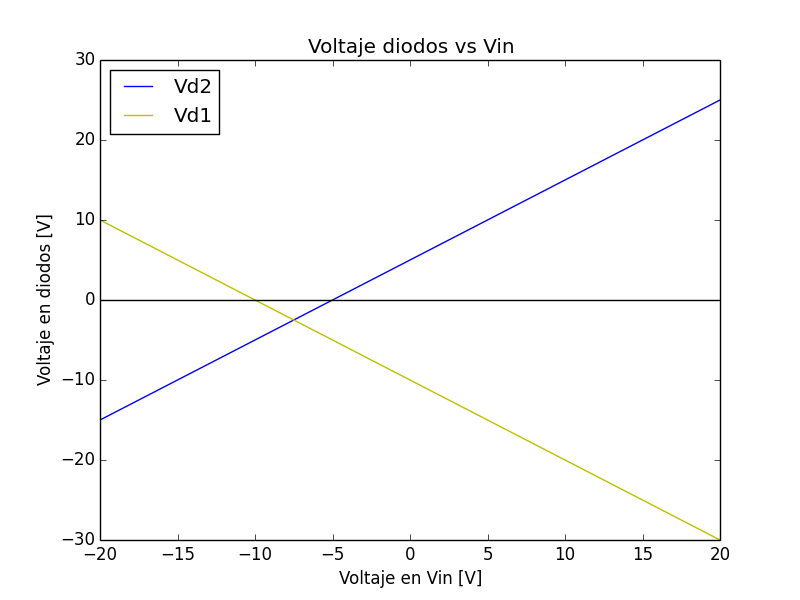
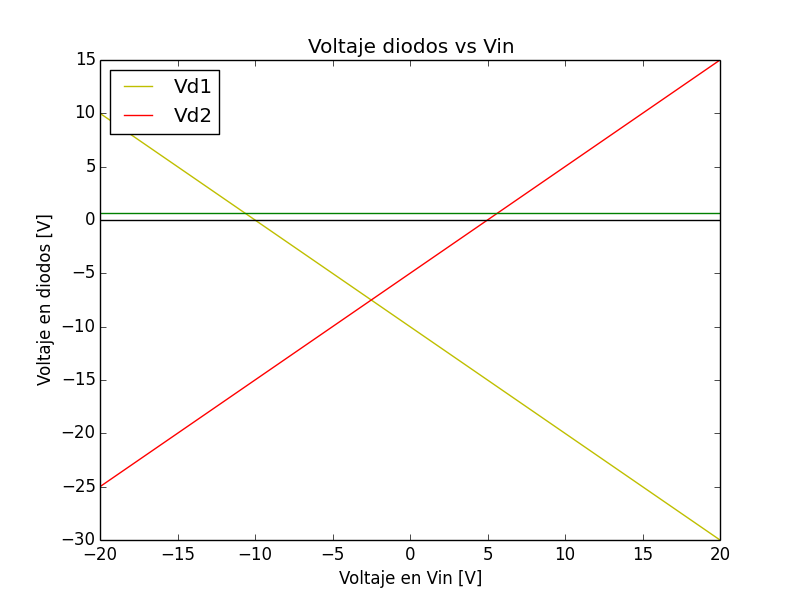
Ok

diff --git a/Tarea2_Vo.py b/Tarea2_Vo.py
@@ -3,15 +3,15 @@ import matplotlib.pyplot as plt
 
 #Im1 en funcion de Vin
 def Im1(Vin):
-    a = (1/15.0)*(Vin+9.3)
-    b = (1/30.0)*(-13.6)
+    a = (1/15.0)*(Vin+10.7)
+    b = (1/30.0)*(-6.4)
     ans = a+b
     return ans
 
 #Im2 en funcion de Vin
 def Im2(Vin):
-    a = (1/30.0)*(Vin+9.3)
-    b = (1/15.0)*(-13.6)
+    a = (1/30.0)*(Vin+10.7)
+    b = (1/15.0)*(-6.4)
     ans = a+b
     return ans
 
@@ -25,6 +25,10 @@ IIm2 = Im2(VVin)
 #Linea de I = 0
 zero = np.zeros(100)
 
+Id1 = IIm2 - IIm1
+Id2 = IIm2
+
+"""
 A=0
 for i in IIm1:
     if i<0.01 and i>-0.01:
@@ -44,10 +48,11 @@ for i in Id1:
     if i<0.01 and i>-0.01:
         print "Vd1 = " + str(VVin[B])
     C+=1
+"""
 
 #Graficas
-plt.plot(VVin,IIm1, label = "Im1")
-plt.plot(VVin,IIm2, c = "r", label = "Im2")
+#plt.plot(VVin,IIm1, label = "Im1")
+plt.plot(VVin,IIm2, c = "r", label = "Id2")
 plt.plot(VVin,Id1, c = "g", label = "Id1")
 plt.plot(VVin, zero, c = "k")
 plt.legend(loc = 2)
@@ -58,8 +63,8 @@ plt.savefig("Im1_Im2__Vin.png")
 plt.clf()
 
 #Constantes
-Vc1 = -1000.0
-Vc2 = 17.9
+Vc1 = -10.7
+Vc2 = 5.7
 R1 = 10000.0
 R2 = R1
 R3 = R1
@@ -71,19 +76,25 @@ Vg = 0.7
 def Vo(Vin):
     ans = np.array([])
     for i in Vin:
-        if i < Vc2:
+        if  i < Vc1:
+            a = ((R2/(R2+R1))*i) - Vg - V2
+            ans = np.append(ans,a)
+        elif  Vc1 < i < Vc2:
             ans = np.append(ans,i)
         else:
-            a = ((R3/(R3+R1))*i) - Vg + V2
-            ans = np.append(ans,a)
+            b = ((R3/(R3+R1))*i) + Vg + V2
+            ans = np.append(ans,b)
     return ans
 
-#Linea de Vc2
+#Linea de Vc1
 one = np.ones(100)
+vcc1 = one*Vc1
+#Linea de Vc2
 vcc2 = one*Vc2
 
 #Grafica
-plt.plot(VVin,Vo(VVin))
+plt.plot(VVin,Vo(VVin),c ="k")
+plt.plot(vcc1,VVin, c = "c", label = "Vc1")
 plt.plot(vcc2,VVin, c = "y", label = "Vc2")
 plt.legend(loc = 2)
 plt.title("Vo vs Vin")
@@ -92,14 +103,24 @@ plt.ylabel("Voltaje en Vo [V]")
 plt.savefig("Vo_vs_Vin.png")
 plt.clf()
 
+
+#Regiones D1 y D2
+
 Vv1 = np.ones(100)*V1
 Vv2 = np.ones(100)*V2
 
+#Voltaje Diodo1
 Vd1 = -Vv1  - VVin
-Vd2 = VVin + Vv2
+#Voltaje Diodo2
+Vd2 = VVin - Vv2
 
-plt.plot(VVin,Vd2, label = "Vd2")
+#Linea de Vg = 0.7
+Vvg = np.ones(100)*Vg
+
+#Graficas
 plt.plot(VVin,Vd1, c = "y", label = "Vd1")
+plt.plot(VVin,Vd2, c = "r", label = "Vd2")
+plt.plot(VVin, Vvg, c = "g")
 plt.plot(VVin, zero, c = "k")
 plt.legend(loc = 2)
 plt.title("Voltaje diodos vs Vin")
